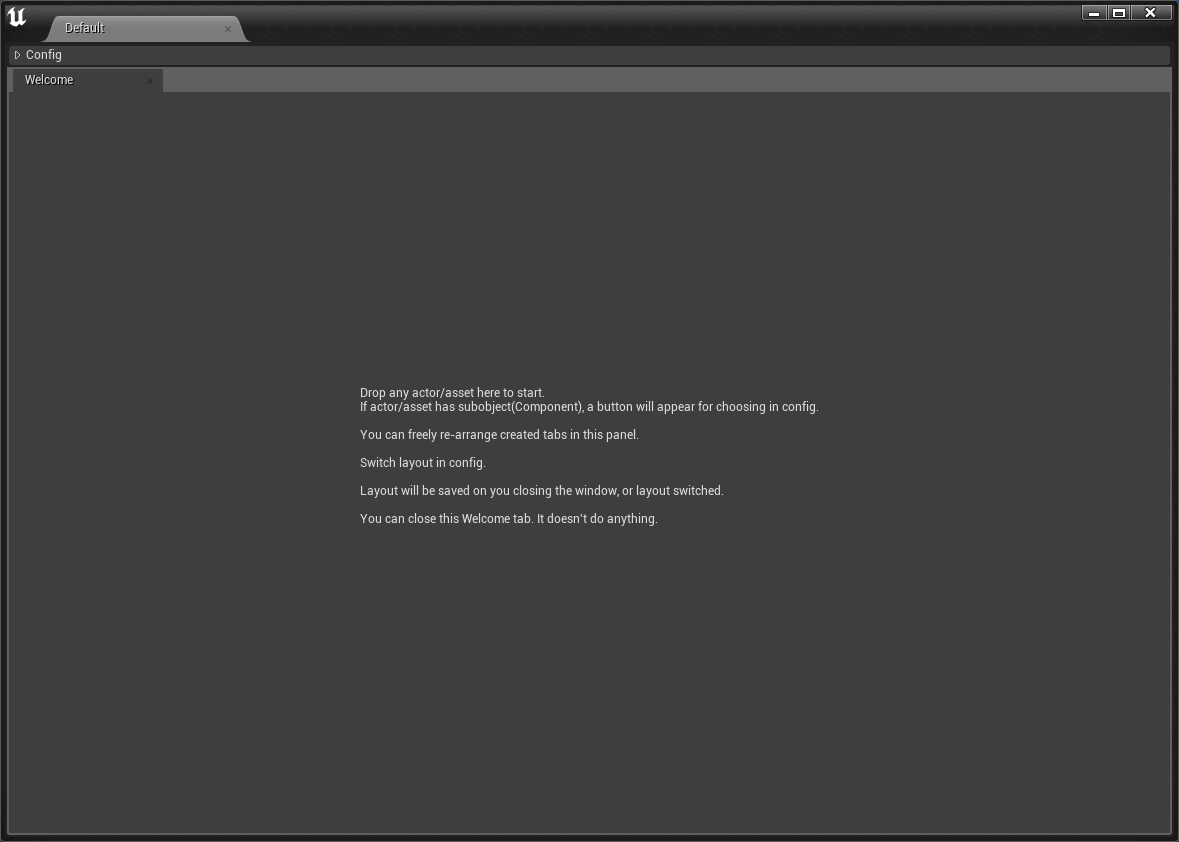
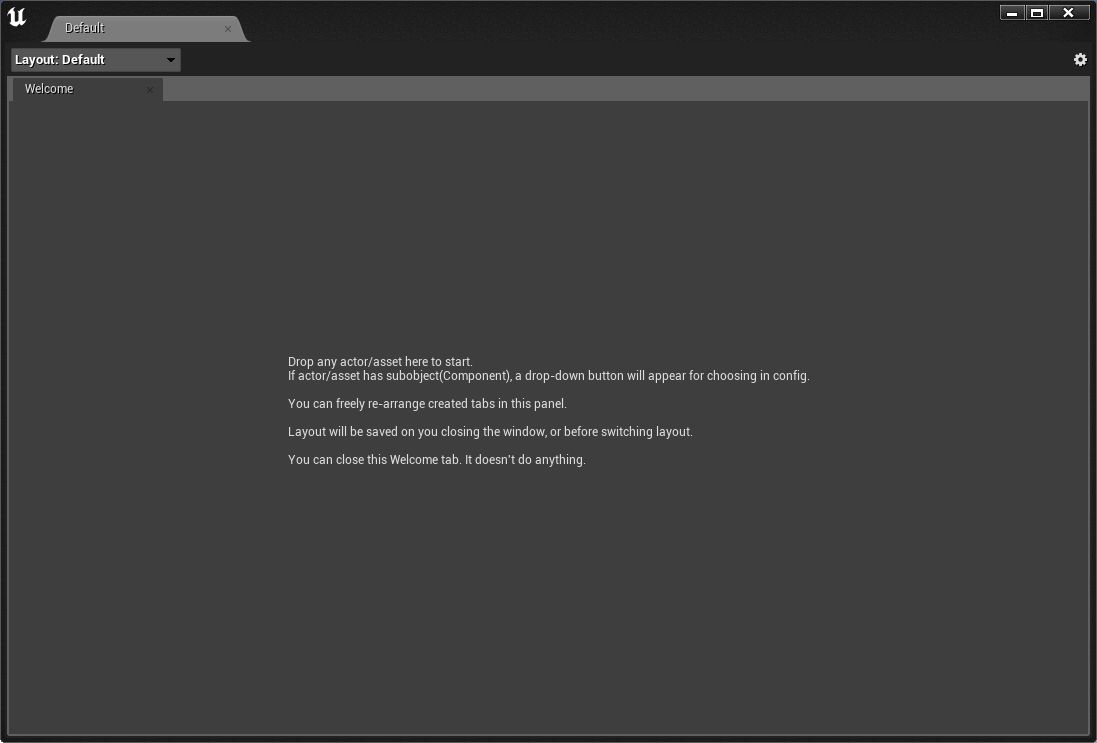
Update readme

Changed region(s): [[0.0, 0.0, 1.0, 0.9906], [0.2479, 0.4643, 0.7438, 0.6501], [0.0, 0.9906, 0.9918, 1.0]]

diff --git a/README.md b/README.md
@@ -37,9 +37,9 @@ Currently it's only tested on 4.27. But it's mostly plain slate code, so I suppo
 3. Open the window, you should see:  
 ![](Images/FirstOpen.png)  
 
-4. Drag any asset/actor onto the window.
-    * If it has no sub-object(Component), a Detail tab will be created.  
-    * Otherwise, you will need to select what to add in the menu.   
+4. Create tab for your object.
+    * Drag any asset/actor onto the window to add it.
+    * Select actor in World Outliner normally, a button will appear allowing you to add its component.  
     
 5. Change the layout as you like.
 
@@ -49,3 +49,4 @@ Currently it's only tested on 4.27. But it's mostly plain slate code, so I suppo
    * This is UE4 limitation, and might can't be "fixed".  
 * Once you add an object to the layout, the level package might be marked dirty(Ask you to save before exit). You must save it, otherwise reference could be lost next time you open the level.     
     * This is because we use LazyObjectPtr to store the reference, which might edit the object in level to store a persistent GUID. 
+* The layout info is saved under you developer folder("Devvelopers/\[YourUserName\]/DetailsWorkspaceLayoutProfile).  
